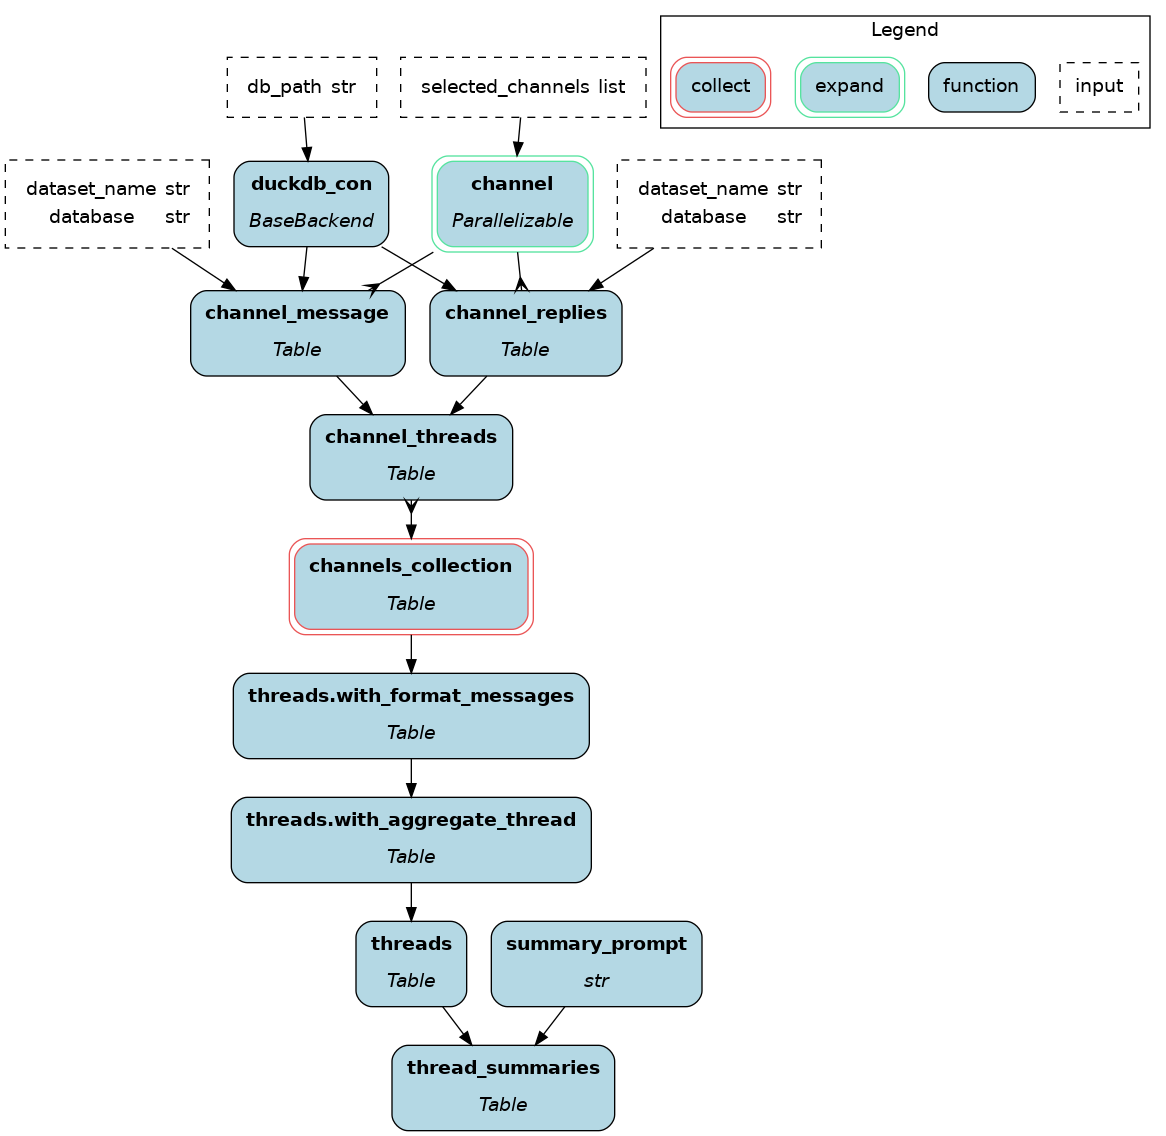
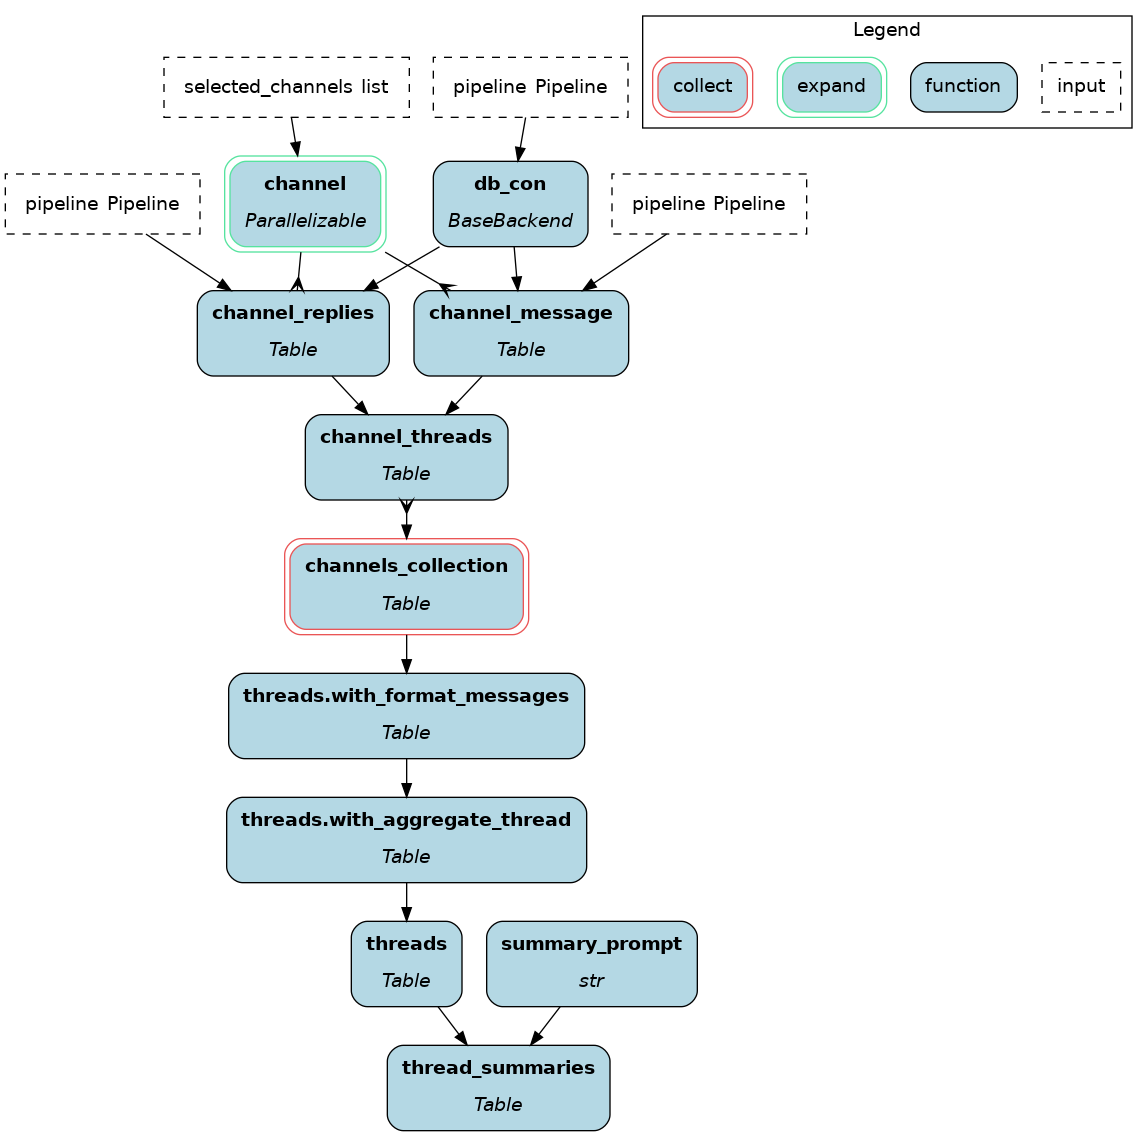
updated transform.py

diff --git a/examples/dlt/transform.py b/examples/dlt/transform.py
@@ -1,25 +1,19 @@
 import textwrap
 
+import dlt
 import ibis
 import ibis.expr.types as ir
 import openai
 
-from hamilton.function_modifiers import extract_fields, pipe, source, step
+from hamilton.function_modifiers import pipe, source, step
 from hamilton.htypes import Collect, Parallelizable
 
 
-@extract_fields(dict(db_path=str, database=str, dataset_name=str))
-def parse_load_info(dlt_load_info: dict) -> dict:
-    return dict(
-        db_path=dlt_load_info["destination_displayable_credentials"],
-        database=dlt_load_info["pipeline"]["pipeline_name"],
-        dataset_name=dlt_load_info["dataset_name"],
-    )
-
-
-def duckdb_con(db_path: str) -> ibis.BaseBackend:
-    """Create a connection to the duckdb backend"""
-    return ibis.duckdb.connect(db_path)
+def db_con(pipeline: dlt.Pipeline) -> ibis.BaseBackend:
+    """Connect to the Ibis backend"""
+    backend = ibis.connect(f"{pipeline.pipeline_name}.duckdb")
+    ibis.set_backend(backend)
+    return backend
 
 
 def channel(selected_channels: list[str]) -> Parallelizable[str]:
@@ -38,10 +32,9 @@ def _epoch_microseconds(timestamp: ir.TimestampColumn) -> ir.StringColumn:
 
 
 def channel_message(
-    duckdb_con: ibis.BaseBackend,
     channel: str,
-    dataset_name: str,
-    database: str,
+    db_con: ibis.BaseBackend,
+    pipeline: dlt.Pipeline,
 ) -> ir.Table:
     """Load table containing parent messages of a channel.
     the timestamps `thread_ts` and `ts` are converted to strings.
@@ -51,30 +44,29 @@ def channel_message(
     Slack reference: https://api.slack.com/messaging/retrieving#finding_threads
     """
     return (
-        duckdb_con.table(
+        db_con.table(
             f"{channel}_message",
-            schema=dataset_name,
-            database=database,
+            schema=pipeline.dataset_name,
+            database=pipeline.pipeline_name,
         )
         .mutate(
-            thread_ts=_epoch_microseconds(ibis._.thread_ts),
-            ts=_epoch_microseconds(ibis._.ts),
+            thread_ts=_epoch_microseconds(ibis._.thread_ts).cast(str),
+            ts=_epoch_microseconds(ibis._.ts).cast(str),
         )
         .mutate(thread_ts=ibis.coalesce(ibis._.thread_ts, ibis._.ts))
     )
 
 
 def channel_replies(
-    duckdb_con: ibis.BaseBackend,
     channel: str,
-    dataset_name: str,
-    database: str,
+    db_con: ibis.BaseBackend,
+    pipeline: dlt.Pipeline,
 ) -> ir.Table:
-    """Load table containing reply message of a channel"""
-    return duckdb_con.table(
+    """Create table for replies"""
+    return db_con.table(
         f"{channel}_replies_message",
-        schema=dataset_name,
-        database=database,
+        schema=pipeline.dataset_name,
+        database=pipeline.pipeline_name,
     )
 
 
@@ -190,8 +182,9 @@ def threads(channels_collection: ir.Table) -> ir.Table:
     return channels_collection
 
 
-def save_threads(threads: ir.Table, duckdb_con: ibis.BaseBackend) -> int:
+def insert_threads(threads: ir.Table) -> int:
     """Save `threads` table and return row count."""
-    threads_table = duckdb_con.create_table("threads", schema=threads.schema())
-    duckdb_con.insert("threads", threads.to_pyarrow())
+    db_con = ibis.get_backend()
+    threads_table = db_con.create_table("threads", threads)
+    db_con.insert("threads", threads)
     return int(threads_table.count().execute())

diff --git a/examples/dlt/run.py b/examples/dlt/run.py
@@ -18,11 +18,6 @@ def main(
     """
 
     # dlt
-    source = slack.slack_source(
-        selected_channels=selected_channels,
-        replies=True,
-    )
-
     slack_pipeline = dlt.pipeline(
         pipeline_name="slack",
         destination="duckdb",
@@ -30,7 +25,13 @@ def main(
         full_refresh=ingestion_full_refresh,
     )
 
-    load_info = slack_pipeline.run(source)
+    dlt_source = slack.slack_source(
+        selected_channels=selected_channels,
+        replies=True,
+    )
+
+    load_info = slack_pipeline.run(dlt_source)
+    print(load_info)
 
     if os.environ.get("OPENAI_API_KEY") is None:
         raise KeyError("OPENAI_API_KEY wasn't set.")
@@ -46,9 +47,9 @@ def main(
 
     inputs = dict(
         selected_channels=selected_channels,
-        dlt_load_info=load_info.asdict(),
+        pipeline=slack_pipeline,
     )
-    dr.execute(["threads"], inputs=inputs)
+    dr.execute(["insert_threads"], inputs=inputs)
 
 
 if __name__ == "__main__":

diff --git a/examples/dlt/README.md b/examples/dlt/README.md
@@ -9,6 +9,7 @@ It includes a pipeline to ingest messages from Slack channels and generate threa
 - `.dlt/` contains the source's version, config, and secrets for the dlt `Pipeline`
 - `transform.py` contains the Hamilton code to transform data and build the `threads` table
 - `run.py` contains the code to execution the dlt `Pipeline` and the Hamilton dataflow.
+- `notebook.ipynb` contains the equivalent of both `transform.py` and `run.py` allowing you to explore the code interactively.
 
 # Set up
 1. Create a virtual environment and activate it
@@ -22,9 +23,10 @@ It includes a pipeline to ingest messages from Slack channels and generate threa
     ```
 3. Follow this dlt [guide to ingest Slack data](https://dlthub.com/docs/dlt-ecosystem/verified-sources/slack). Make sure to invite your Slack app to your channel!
 
-4. Execute the code
+4. Execute the code. Use `--help` to learn about accepted arguments.
     ```console
-    python run.py
+    python run.py --help
+    python run.py general dlt
     ```
 
 # References
